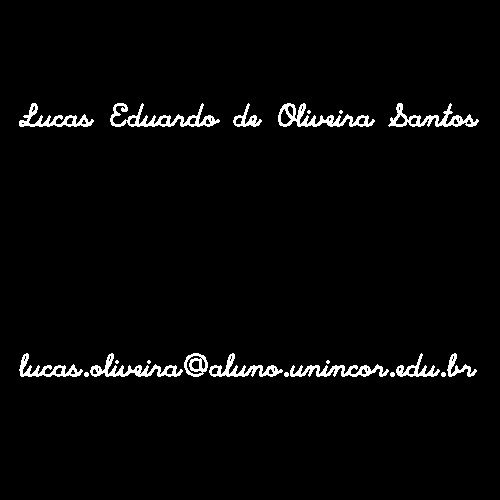
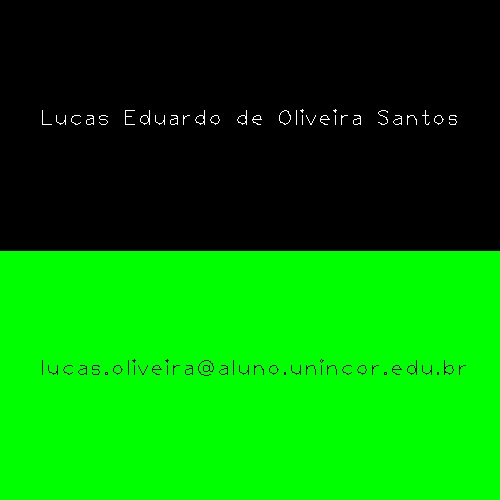
inserindo alterações ao código

diff --git a/arquivo.py b/arquivo.py
@@ -1,57 +1,39 @@
 import numpy as np
 import cv2
 
-# Tamanho padrão da imagem
-largura = 500
-altura = 500
+def mostraVariavel(nome, email):
+    largura = 500
+    altura = 500
 
-def generated_image():
     # Cria uma nova imagem(500x500 e 3 canais RGB)
-    image = np.zeros((altura, largura, 3), dtype=np.uint8)
-    return image
+    imagem = np.zeros((altura, largura, 3), dtype=np.uint8)
+    x=0
+    y=0
 
-def mostraVariavel(imagem, nome, email):
     # Percorrendo a imagem
-    for y in range(0, altura):
-        for x in range(0, largura):
-            # if x > 250:
-            #     cv2.rectangle(imagem, (0, 0), (x, y), (0, 0, 0), -1)
-            # elif x < 250:
-            #     cv2.rectangle(imagem, (0, 0), (x, y), (0,255,0), -1)
+    for x in range(0, altura):
+        for y in range(0, largura):
+            if x <= altura/2:
+                imagem[x,y] = [0,0,0]
+            else:
+                imagem[x,y] = [0,255,0]
 
     # Desenha o texto com a variavel em preto, no centro
-    fonte = cv2.FONT_HERSHEY_SCRIPT_SIMPLEX
-    escala = 1
-    grossura = 2
+    fonte = cv2.FONT_HERSHEY_PLAIN
+    escala = 1.5
+    grossura = 1
 
     # Pega o tamanho (altura e largura) do texto em pixels
     tamanho, _ = cv2.getTextSize(nome, fonte, escala, grossura)
-
-    # Desenha o texto no centro
-    cv2.putText(imagem, nome, (int(largura / 2 - tamanho[0] / 2), 125), fonte, escala, (255, 255, 255), grossura)
-    cv2.putText(imagem, email, (int(largura / 2 - tamanho[0] / 2), 375), fonte, escala, (255, 255, 255), grossura)
-    # cv2.putText(imagem, texto, (int(largura / 2 - tamanho[0] / 2), 450), fonte, escala, (0, 0, 0), grossura)
+    
+    cv2.putText(imagem, nome, (int(largura / 2 - tamanho[0] / 2), int(altura / 2 / 2)), fonte, escala, (255, 255, 255), grossura)
+    cv2.putText(imagem, email, (int(largura / 2 - tamanho[0] / 2), int(altura - (altura / 2 / 2 ))), fonte, escala, (0, 0, 0), grossura)
     cv2.imwrite("teste.jpg", imagem)
 
+    inverter = cv2.flip(imagem, 1)
+    cv2.imwrite("testea.jpg", inverter)
+
 if __name__ == '__main__':
-    image = generated_image()
     nome = 'Lucas Eduardo de Oliveira Santos'
     email = 'lucas.oliveira@aluno.unincor.edu.br'
-    mostraVariavel(image, nome, email)
-
-# import cv2
-# import numpy as np
-# img=np.zeros((320,600),dtype=np.uint8)
-# cv2.putText(img,"FONT_HERSHEY_SIMPLEX",(10,30),cv2.FONT_HERSHEY_SIMPLEX,1,255)
-# cv2.putText(img,"FONT_HERSHEY_COMPLEX",(10,60),cv2.FONT_HERSHEY_COMPLEX,1,255)
-# cv2.putText(img,"FONT_HERSHEY_DUPLEX",(10,90),cv2.FONT_HERSHEY_DUPLEX,1,255)
-# cv2.putText(img,"FONT_HERSHEY_TRIPLEX",(10,120),cv2.FONT_HERSHEY_TRIPLEX,1,255)
-# cv2.putText(img,"FONT_HERSHEY_COMPLEX_SMALL",(10,150),cv2.FONT_HERSHEY_COMPLEX_SMALL,1,255)
-# cv2.putText(img,"FONT_HERSHEY_PLAIN",(10,180),cv2.FONT_HERSHEY_PLAIN,1,255)
-# cv2.putText(img,"FONT_HERSHEY_SCRIPT_COMPLEX",(10,210),cv2.FONT_HERSHEY_SCRIPT_COMPLEX,1,255)
-# cv2.putText(img,"FONT_ITALIC",(10,240),cv2.FONT_ITALIC,1,255)
-# cv2.putText(img,"QT_FONT_BLACK",(10,270),cv2.QT_FONT_BLACK,1,255)
-# cv2.putText(img,"QT_FONT_NORMAL",(10,300),cv2.QT_FONT_NORMAL,1,255)
-# cv2.imshow("janela",img)
-# cv2.imwrite("fonte_opencv.jpg",img)
-# cv2.waitKey(0)
+    mostraVariavel(nome, email)
